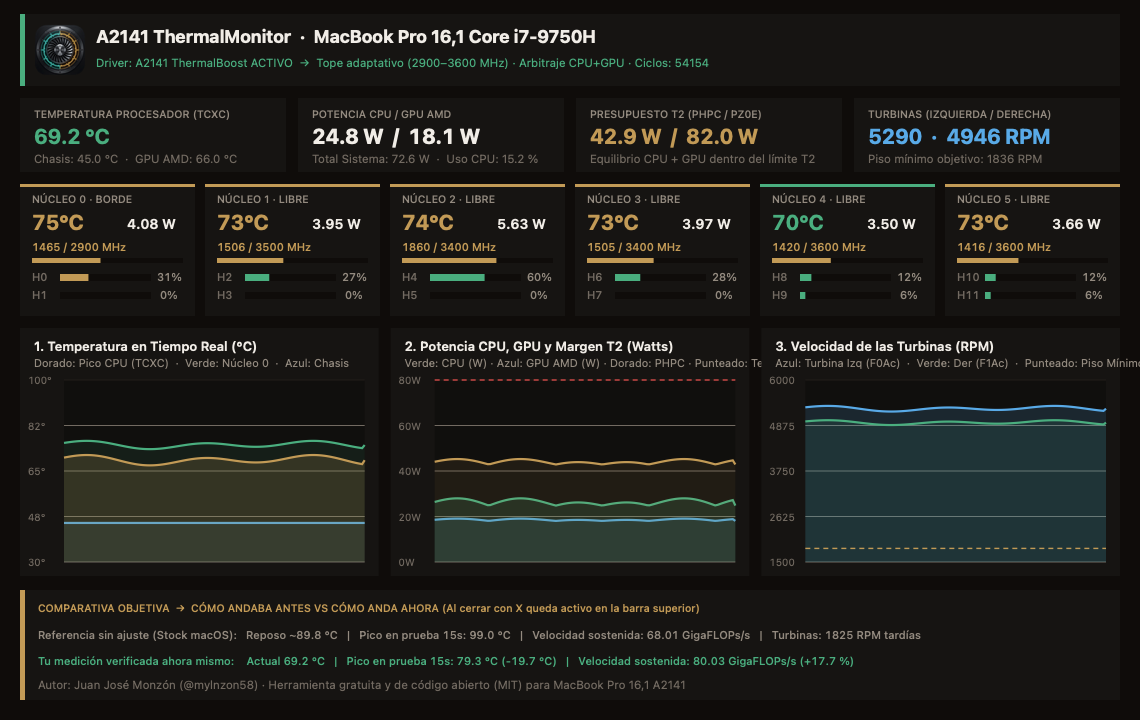
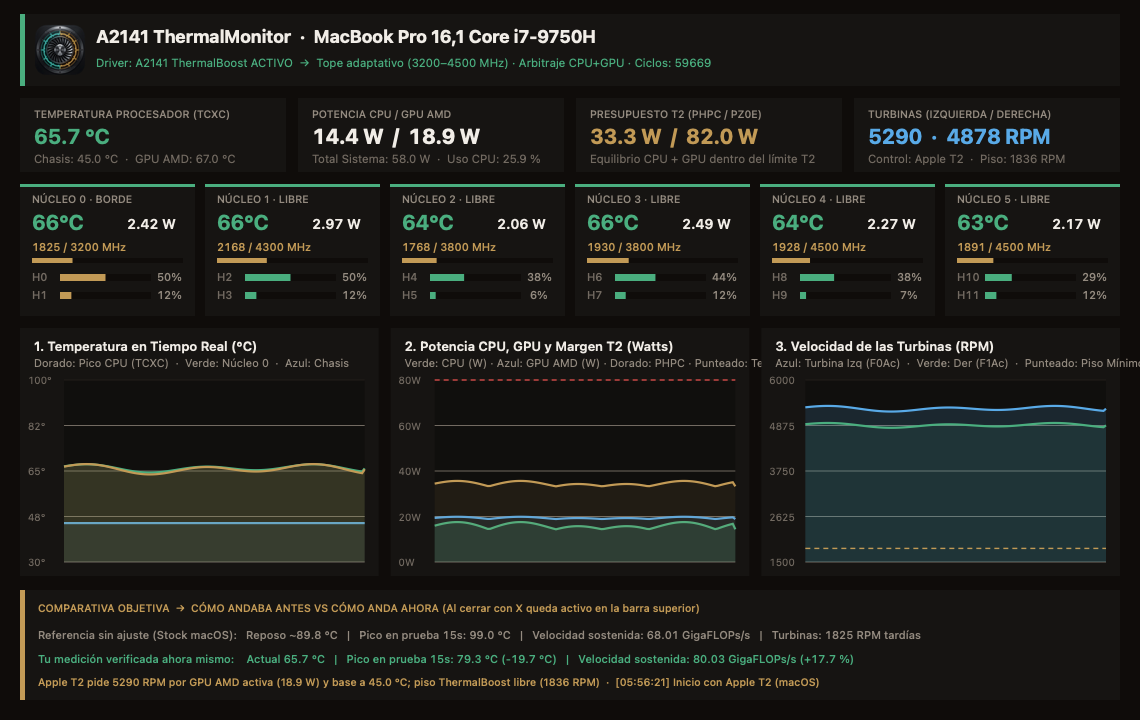
Show live fan controller attribution (Apple T2 vs ThermalBoost) and transition reasons

diff --git a/src/A2141MonitorApp.mm b/src/A2141MonitorApp.mm
@@ -33,6 +33,10 @@ static NSColor *colorFromHex(uint32_t hex, CGFloat alpha = 1.0) {
     double bench_peak_temp_c;
     double bench_last_gflops;
     double bench_saved_idle_c;
+
+    int    fan_owner; /* 1 = Apple T2 (macOS), 2 = A2141 ThermalBoost */
+    NSString *fan_reason_text;
+    NSString *last_transition_text;
 }
 - (void)pushSnapshot:(const A2141Snapshot *)snap;
 @end
@@ -59,6 +63,9 @@ static NSColor *colorFromHex(uint32_t hex, CGFloat alpha = 1.0) {
         bench_peak_temp_c = 0.0;
         bench_last_gflops = 0.0;
         bench_saved_idle_c = 0.0;
+        fan_owner = 0;
+        fan_reason_text = @"Analizando quién controla las turbinas...";
+        last_transition_text = @"Sin cambios de control todavía";
     }
     return self;
 }
@@ -99,6 +106,38 @@ static NSColor *colorFromHex(uint32_t hex, CGFloat alpha = 1.0) {
     hist_fan_min[HISTORY_LEN - 1] = latest.fan0_min_rpm;
 
     if (hist_count < HISTORY_LEN) hist_count++;
+
+    /* Real-time fan controller attribution: Apple T2 (macOS) vs A2141 ThermalBoost */
+    int new_owner = (latest.kext_loaded && latest.fan0_min_rpm > 1950.0 &&
+                     latest.fan0_actual_rpm <= latest.fan0_min_rpm + 350.0) ? 2 : 1;
+
+    NSString *reason = nil;
+    if (new_owner == 2) {
+        reason = [NSString stringWithFormat:@"Subida proactiva de piso (%.0f RPM) por carga/calor (CPU %.1f °C) para evitar retraso de T2",
+                  latest.fan0_min_rpm, latest.tcxc_max_c];
+    } else if (latest.gpu_power_w >= 8.0 || latest.palm_temp_c >= 42.5) {
+        reason = [NSString stringWithFormat:@"Apple T2 pide %.0f RPM por GPU AMD activa (%.1f W) y base a %.1f °C; piso ThermalBoost libre (%.0f RPM)",
+                  latest.fan0_actual_rpm, latest.gpu_power_w, latest.palm_temp_c, latest.fan0_min_rpm];
+    } else if (latest.fan0_actual_rpm <= 2150.0) {
+        reason = [NSString stringWithFormat:@"Apple T2 en reposo silencioso estándar (%.0f RPM)",
+                  latest.fan0_actual_rpm];
+    } else {
+        reason = [NSString stringWithFormat:@"Apple T2 gestiona la curva nativa (%.0f RPM) por encima del piso mínimo (%.0f RPM)",
+                  latest.fan0_actual_rpm, latest.fan0_min_rpm];
+    }
+    fan_reason_text = reason;
+
+    NSDateFormatter *fmt = [[NSDateFormatter alloc] init];
+    [fmt setDateFormat:@"HH:mm:ss"];
+    NSString *nowStr = [fmt stringFromDate:[NSDate date]];
+    NSString *who = (new_owner == 2) ? @"A2141 ThermalBoost" : @"Apple T2 (macOS)";
+    if (fan_owner != 0 && fan_owner != new_owner) {
+        last_transition_text = [NSString stringWithFormat:@"[%@] Cambio en vivo a %@", nowStr, who];
+    } else if (fan_owner == 0) {
+        last_transition_text = [NSString stringWithFormat:@"[%@] Inicio con %@", nowStr, who];
+    }
+    fan_owner = new_owner;
+
     [self setNeedsDisplay:YES];
 }
 
@@ -279,11 +318,12 @@ static NSColor *colorFromHex(uint32_t hex, CGFloat alpha = 1.0) {
         [NSString stringWithFormat:@"%.1f W  /  %.1f W", latest.phpc_power_w, latest.pz0e_budget_w],
         [NSString stringWithFormat:@"%.0f  ·  %.0f RPM", latest.fan0_actual_rpm, latest.fan1_actual_rpm]
     ];
+    NSString *fanOwnerTag = (fan_owner == 2) ? @"Control: ThermalBoost" : @"Control: Apple T2";
     NSArray *notes = @[
         [NSString stringWithFormat:@"Chasis: %.1f °C  ·  GPU AMD: %.1f °C", latest.palm_temp_c, latest.gpu_temp_c],
         [NSString stringWithFormat:@"Total Sistema: %.1f W  ·  Uso CPU: %.1f %%", latest.sys_power_w, latest.total_cpu_pct],
         @"Equilibrio CPU + GPU dentro del límite T2",
-        [NSString stringWithFormat:@"Piso mínimo objetivo: %.0f RPM", latest.fan0_min_rpm]
+        [NSString stringWithFormat:@"%@  ·  Piso: %.0f RPM", fanOwnerTag, latest.fan0_min_rpm]
     ];
     NSArray *colors = @[
         tempColor,
@@ -448,14 +488,18 @@ static NSColor *colorFromHex(uint32_t hex, CGFloat alpha = 1.0) {
     }
 
     [self drawText:afterLine
-                at:NSMakePoint(compBox.origin.x + 18, compBox.origin.y + 64)
+                at:NSMakePoint(compBox.origin.x + 18, compBox.origin.y + 62)
               font:smallMono
              color:colorFromHex(0x52B788)];
 
-    [self drawText:@"Autor: Juan José Monzón (@mylnzon58) · Herramienta gratuita y de código abierto (MIT) para MacBook Pro 16,1 A2141"
-                at:NSMakePoint(compBox.origin.x + 18, compBox.origin.y + 88)
-              font:subFont
-             color:colorFromHex(0x7D756B)];
+    NSString *fanControlLine = [NSString stringWithFormat:@"%@  ·  %@",
+                                fan_reason_text ?: @"",
+                                last_transition_text ?: @""];
+    NSColor *fanCtrlCol = (fan_owner == 2) ? colorFromHex(0x63B3ED) : colorFromHex(0xC9A45A);
+    [self drawText:fanControlLine
+                at:NSMakePoint(compBox.origin.x + 18, compBox.origin.y + 86)
+              font:labelFont
+             color:fanCtrlCol];
 }
 
 @end
